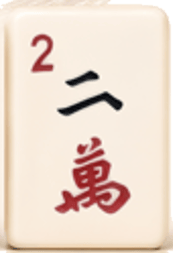
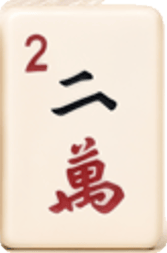
Trim the neighbouring tile out of two hero images
Maureen spotted it on the 5 Oct call: "little lines in the sides of them
like there are more than 1 together." She was right -- the crop from the
book cover left a sliver of the adjacent tile plus the dark seam between
them on the dragon's right edge and the two-of-characters' left edge.

Found the seam by scanning luminance inward from each edge and cutting at
the minimum, then re-applied the rounded-corner alpha so the new edge is
antialiased -- the hero puts a drop-shadow on these, and a hard cut would
have shown as a straight shadow line.

dragon 166x250 -> 159x250, two-wan 173x253 -> 167x253; width/height
attributes updated to match so the aspect hint stays correct.

Claude-Session: https://claude.ai/code/session_019QUH5BBDdTXvzWVFCncufZ

diff --git a/index.html b/index.html
@@ -52,8 +52,8 @@
   <div class="hero-tiles reveal" role="img"
        aria-label="The three Mahjong tiles from the cover of Ancient Game. Modern Leadership. — the Joker, the red dragon, and the two of characters">
     <img class="t-cover" src="assets/tile-joker.png" alt="" width="165" height="253" fetchpriority="high">
-    <img class="t-cover" src="assets/tile-dragon.png" alt="" width="166" height="250" fetchpriority="high">
-    <img class="t-cover" src="assets/tile-two-wan.png" alt="" width="173" height="253" fetchpriority="high">
+    <img class="t-cover" src="assets/tile-dragon.png" alt="" width="159" height="250" fetchpriority="high">
+    <img class="t-cover" src="assets/tile-two-wan.png" alt="" width="167" height="253" fetchpriority="high">
   </div>
   <h1 class="reveal d1">Ancient Game.<br><span class="g">Modern Leadership.</span></h1>
   <p class="hook reveal d2">What can an ancient tile game teach today's leaders? <em>More than you might imagine.</em></p>
